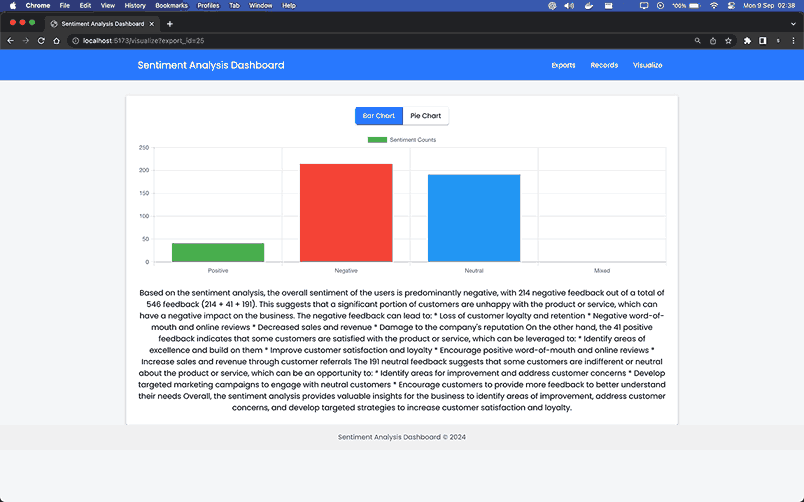
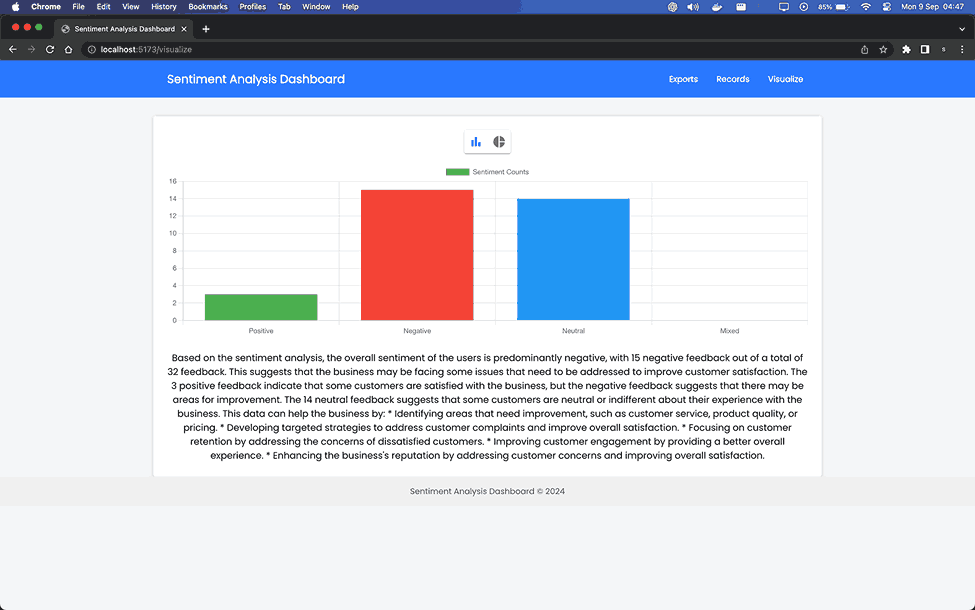
add vite url

diff --git a/client/src/pages/visualize.jsx b/client/src/pages/visualize.jsx
@@ -18,10 +18,12 @@ import {
   Paper,
   CircularProgress,
   ButtonGroup,
-  Button
+  IconButton
 } from '@mui/material';
+import { BarChart, PieChart } from '@mui/icons-material';
 
 import { useSentimentCountQuery } from '../hooks/record';
+
 import Navbar from '../components/Navbar';
 import Footer from '../components/Footer';
 
@@ -50,7 +52,7 @@ const Visualize = () => {
 
   useEffect(() => {
     refetch();
-  }, [exportID, refetch])
+  }, [exportID, refetch]);
 
   const chartData = {
     labels: ['Positive', 'Negative', 'Neutral', 'Mixed'],
@@ -92,12 +94,18 @@ const Visualize = () => {
         <Paper elevation={3} sx={{ p: 3 }}>
           <Box mb={2} textAlign="center">
             <ButtonGroup variant="contained" aria-label="chart type selector">
-              <Button onClick={() => setChartType('bar')} color={chartType === 'bar' ? 'primary' : 'default'}>
-                Bar Chart
-              </Button>
-              <Button onClick={() => setChartType('pie')} color={chartType === 'pie' ? 'primary' : 'default'}>
-                Pie Chart
-              </Button>
+              <IconButton
+                onClick={() => setChartType('bar')}
+                color={chartType === 'bar' ? 'primary' : 'default'}
+              >
+                <BarChart />
+              </IconButton>
+              <IconButton
+                onClick={() => setChartType('pie')}
+                color={chartType === 'pie' ? 'primary' : 'default'}
+              >
+                <PieChart />
+              </IconButton>
             </ButtonGroup>
           </Box>
           {isLoading ? (

diff --git a/client/src/pages/export.jsx b/client/src/pages/export.jsx
@@ -27,12 +27,13 @@ import { useNavigate } from 'react-router-dom';
 import { toast } from 'react-toastify';
 
 import Navbar from '../components/Navbar';
+import Footer from '../components/Footer';
+
 import {
   useExportDataQuery,
   useExportCSVMutation,
   useUploadCSVMutation,
 } from '../hooks/export';
-import Footer from '../components/Footer';
 
 const ITEMS_PER_PAGE = 5;
 

diff --git a/client/src/pages/record.jsx b/client/src/pages/record.jsx
@@ -18,9 +18,9 @@ import {
 import { useLocation } from 'react-router-dom';
 
 import Navbar from '../components/Navbar';
+import Footer from '../components/Footer';
 
 import { useSearchRecordQuery } from '../hooks/record';
-import Footer from '../components/Footer';
 
 const ITEMS_PER_PAGE = 5;
 

diff --git a/README.md b/README.md
@@ -149,7 +149,9 @@ The **Sentiment Analysis Tech Support** project provides a comprehensive solutio
    npm run dev
    ```
 
-2. **Generate Production Build**
+2. **Go to** `http://localhost:5173/`
+
+3. **Generate Production Build**
 
    Create a production build for the client:
 
